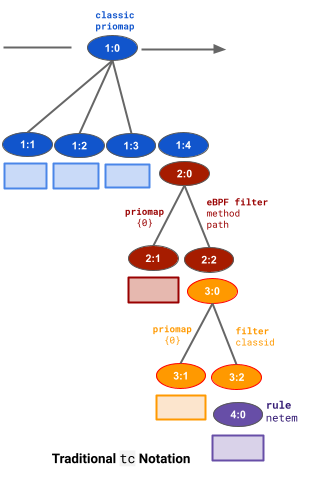
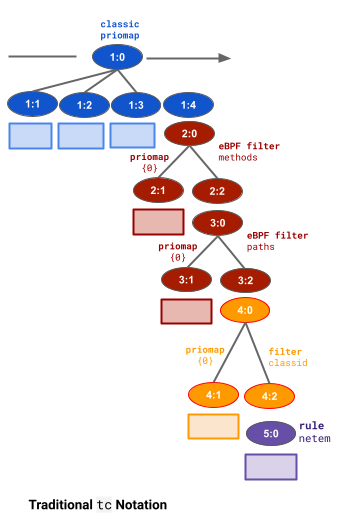
doc: update tc ebpf filters
Jira: CHAOS-738, CHAOS-739

Changed region(s): [[0.0, 0.0294, 0.9839, 0.9686], [0.0868, 0.9392, 0.6077, 0.9979], [0.0, 0.0881, 0.2315, 0.1174]]

diff --git a/docs/network_disruption/prio.md b/docs/network_disruption/prio.md
@@ -190,7 +190,9 @@ Depending on your system, you'll find the kernel config in any one of these:
 #### Pod level visualization
 
 Tc can use eBPF filters in order to intercept packets at the application layer and allow the access to the payload of packets.
-Network disruption used eBPF filters to apply disruption by filtering with `method` and/or `path`:
+Network disruption used eBPF filters to apply disruption by filtering with `methods` and/or `paths`:
+- **Path** should be a validate HTTP path starting with a `/` and should not exceed `90` characters.
+- **Method** can be a GET, DELETE, POST, PUT, HEAD, PATCH, CONNECT, OPTIONS or TRACE.
 
 Now, let us take the following pod level disruption spec with new filters:
 ```
@@ -205,8 +207,10 @@ spec:
     port: 80
     protocol: tcp
     http:
-        method: get <-- eBPF filter
-        path: /test <-- eBPF filter
+        methods:
+          - get <-- eBPF filter
+        paths:
+          - /test <-- eBPF filter
     flow: egress
     delay: 1000
     delayJitter: 5
@@ -222,8 +226,9 @@ I recommend to read the `Network Disruption implementation for pod level` to und
 </kbd></p>
 
 - a **first prio qdisc** will be created and attached to root. It'll be used to apply the first filter, filtering on packet IP destination, source/destination ports and protocol.
-- a **second prio qdisc** will be created and attached to the first one. It'll be used to apply the second eBPF filter, filtering on method and path.
-- a **third prio qdisc** will be created and attached to the second one. It'll be used to apply the third filter, filtering on packet mark to identify packets coming from the targeted process.
+- a **second prio qdisc** will be created and attached to the first one. It'll be used to apply the eBPF filter, filtering on methods.
+- a **third prio qdisc** will be created and attached to the first one. It'll be used to apply the eBPF filter, filtering on paths.
+- a **fourth prio qdisc** will be created and attached to the second one. It'll be used to apply the fourth filter, filtering on packet mark to identify packets coming from the targeted process.
 
 ## How to debug tc eBPF program?
 
@@ -232,21 +237,23 @@ I recommend to read the `Network Disruption implementation for pod level` to und
 - The **first step** is to apply the network disruption with a custom HTTP **path** and/or **method** like:
 ```
 spec:
-level: pod
-selector:
-app: demo
-count: 1
-network:
-hosts:
-- 10.0.1.254/31
-port: 80
-protocol: tcp
-http:
-method: get <-- eBPF filter
-path: /test <-- eBPF filter
-flow: egress
-delay: 1000
-delayJitter: 5
+  level: pod
+  selector:
+    app: demo
+  count: 1
+  network:
+    hosts:
+      - 10.0.1.254/31
+    port: 80
+    protocol: tcp
+    http:
+      methods: 
+        - get <-- eBPF filter
+      paths: 
+        - /test <-- eBPF filter
+    flow: egress
+    delay: 1000
+    delayJitter: 5
 ```
 - The **next step**  is to mount the network of the targeted container `nsenter --target PID --net`
 - The **last step** is to execute the `tc exec bpf debug` command to display print of the eBPF program.
